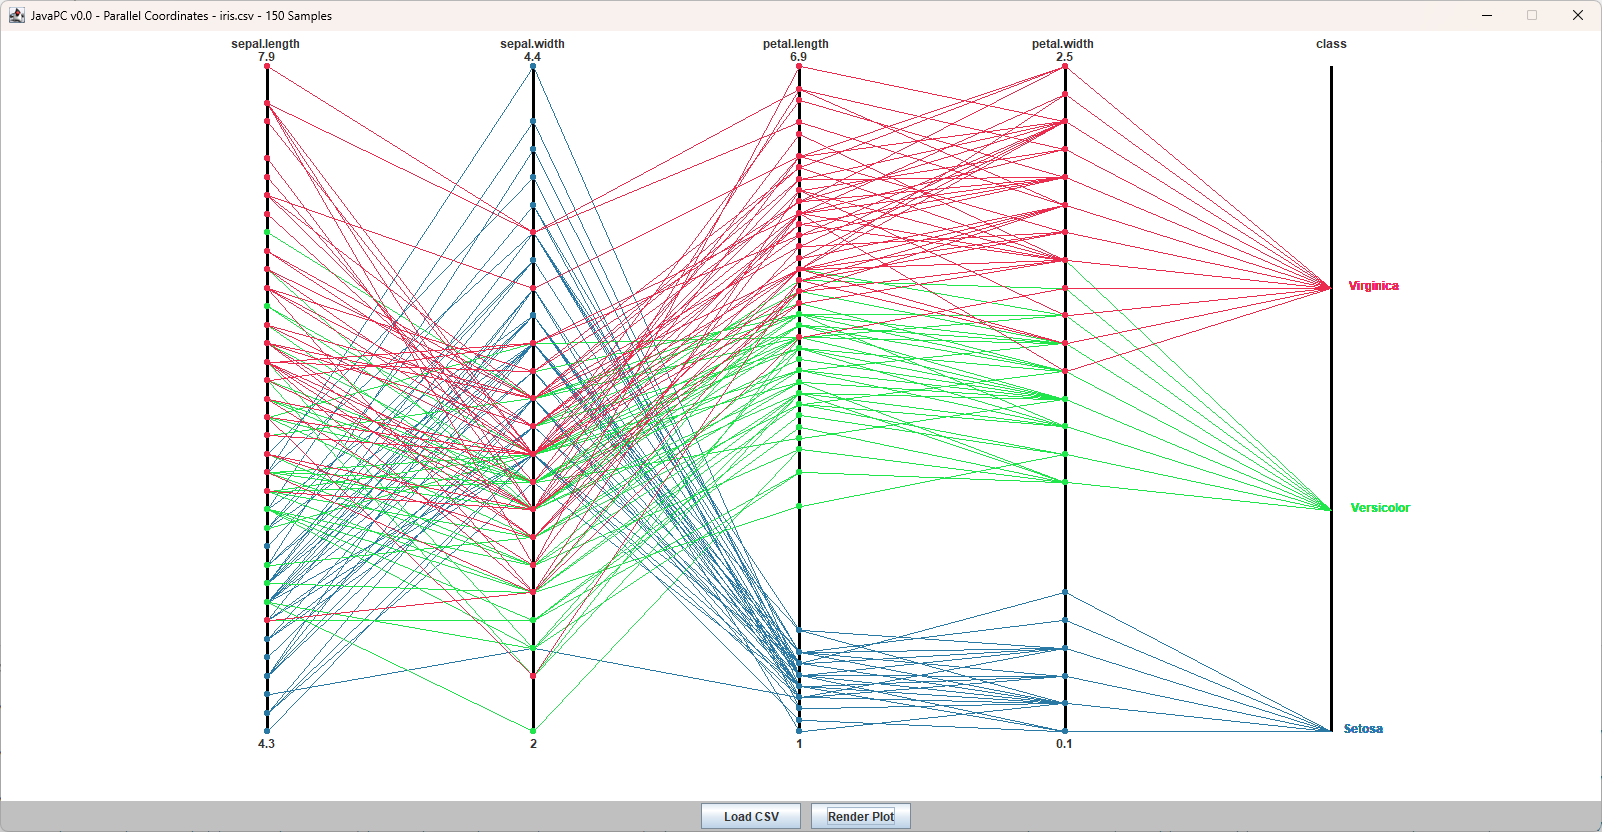
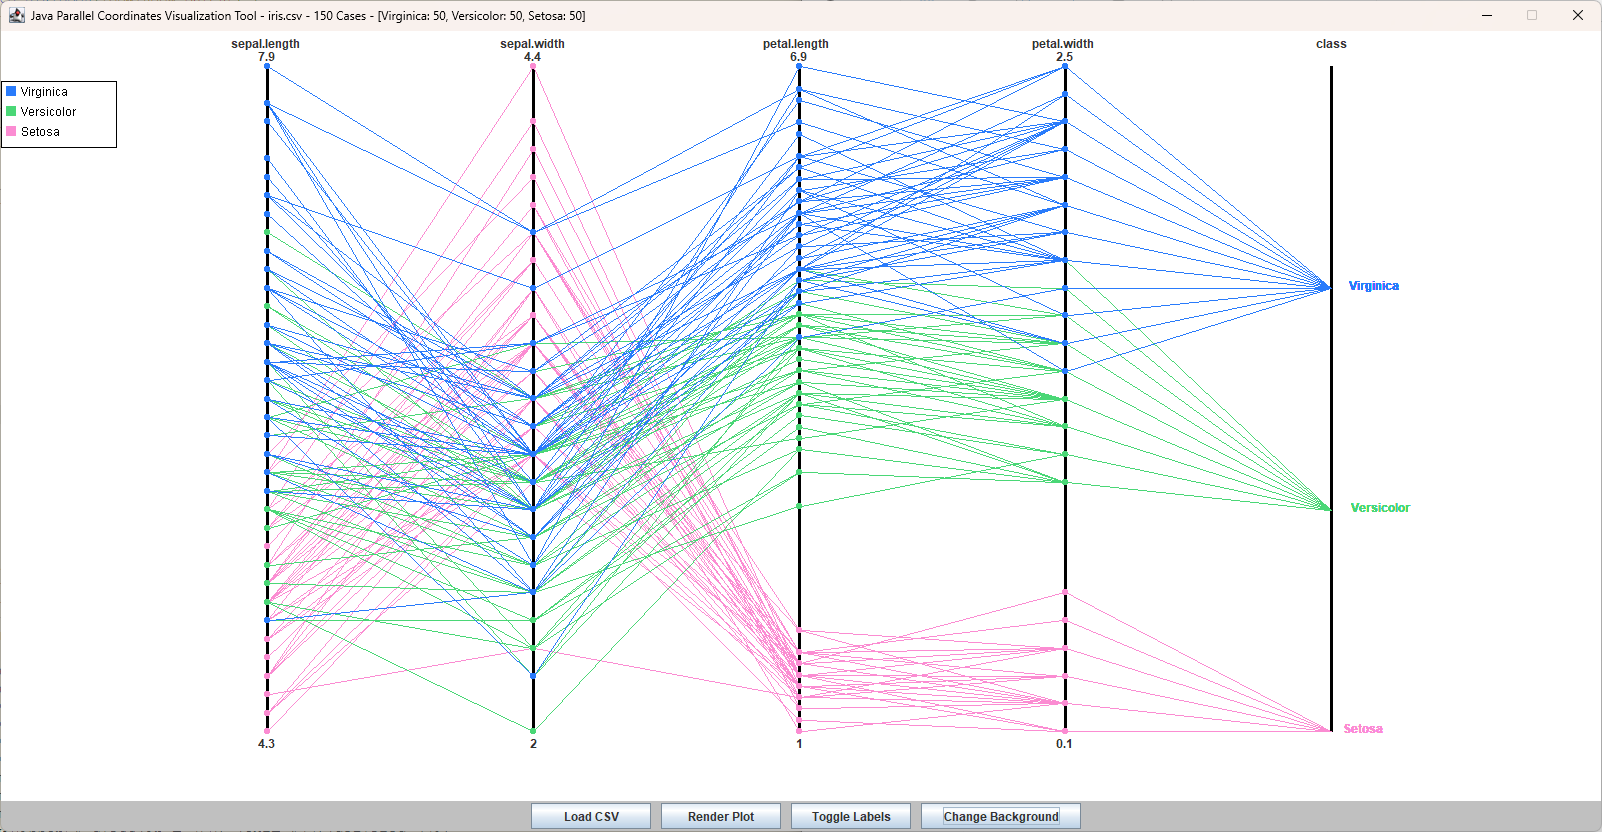
button fixes, screenshots

diff --git a/javaPC/UiRibbon.java b/javaPC/UiRibbon.java
@@ -1,14 +1,7 @@
 package javaPC;
 
-import javax.swing.JPanel;
-import javax.swing.JButton;
-import javax.swing.JColorChooser;
-import javax.swing.JOptionPane;
-import java.awt.Color;
-import java.awt.Dimension;
-import java.awt.GridBagConstraints;
-import java.awt.GridBagLayout;
-import java.awt.Insets;
+import javax.swing.*;
+import java.awt.*;
 import java.awt.event.ActionEvent;
 import java.awt.event.ActionListener;
 import java.io.File;
@@ -37,11 +30,30 @@ public class UiRibbon extends JPanel {
         JButton buttonLoadCSV = new JButton("Load CSV");
         JButton buttonRenderPlot = new JButton("Render Plot");
         JButton buttonToggleAxisNames = new JButton("Toggle Labels");
+        JButton buttonChangeBackground = new JButton("Change Background");
 
         // Set the preferred width of the buttons
         buttonLoadCSV.setPreferredSize(new Dimension(120, buttonLoadCSV.getPreferredSize().height));
         buttonRenderPlot.setPreferredSize(new Dimension(120, buttonRenderPlot.getPreferredSize().height));
         buttonToggleAxisNames.setPreferredSize(new Dimension(120, buttonToggleAxisNames.getPreferredSize().height));
+        buttonChangeBackground.setPreferredSize(new Dimension(160, buttonChangeBackground.getPreferredSize().height));
+
+        buttonChangeBackground.setPreferredSize(new Dimension(160, buttonChangeBackground.getPreferredSize().height));
+        buttonChangeBackground.addActionListener(new ActionListener() {
+            @Override
+            public void actionPerformed(ActionEvent event) {
+                // Open a color chooser dialog and get the selected color
+                Color newColor = JColorChooser.showDialog(null, "Choose Background Color", parent.getPlotPanel().getBackground());
+                if (newColor != null) {
+                    parent.getPlotPanel().setBackgroundColor(newColor); // Assuming parent.getPlotPanel() method exists
+                }
+            }
+        });
+
+        // Initially disable buttons that should only be active after a CSV is loaded
+        buttonRenderPlot.setEnabled(false);
+        buttonToggleAxisNames.setEnabled(false);
+        buttonChangeBackground.setEnabled(false);
 
         // Add action listener to the "Load CSV" button
         buttonLoadCSV.addActionListener(new ActionListener() {
@@ -49,14 +61,24 @@ public class UiRibbon extends JPanel {
             public void actionPerformed(ActionEvent event) {
                 loadedCSV = CsvParser.loadCSVFile();
                 if (loadedCSV == null) {
-                    // Show a basic information message dialog
                     JOptionPane.showMessageDialog(null, "The file selected is not a CSV, please try again.");
                     buttonRenderPlot.setEnabled(false);
+                    buttonToggleAxisNames.setEnabled(false);
+                    buttonChangeBackground.setEnabled(false);
                 } else {
+                    String[][] data = CsvParser.parseCSVFile(loadedCSV); // Declare the 'data' variable
                     buttonRenderPlot.setEnabled(true);
+                    parent.render(loadedCSV.getName(), data);
+                    buttonToggleAxisNames.setEnabled(true);
+                    buttonChangeBackground.setEnabled(true);
                 }
             }
         });
+
+        // Set the preferred width of the buttons
+        buttonLoadCSV.setPreferredSize(new Dimension(120, buttonLoadCSV.getPreferredSize().height));
+        buttonRenderPlot.setPreferredSize(new Dimension(120, buttonRenderPlot.getPreferredSize().height));
+        buttonToggleAxisNames.setPreferredSize(new Dimension(120, buttonToggleAxisNames.getPreferredSize().height));
 
         // Add action listener to the "Render Plot" button
         buttonRenderPlot.setEnabled(false);
@@ -83,19 +105,6 @@ public class UiRibbon extends JPanel {
         constraints.gridy = 0;
         constraints.anchor = GridBagConstraints.WEST;
         constraints.insets = new Insets(0, 10, 0, 0);
-
-        JButton buttonChangeBackground = new JButton("Change Background");
-        buttonChangeBackground.setPreferredSize(new Dimension(160, buttonChangeBackground.getPreferredSize().height));
-        buttonChangeBackground.addActionListener(new ActionListener() {
-            @Override
-            public void actionPerformed(ActionEvent event) {
-                // Open a color chooser dialog and get the selected color
-                Color newColor = JColorChooser.showDialog(null, "Choose Background Color", parent.getPlotPanel().getBackground());
-                if (newColor != null) {
-                    parent.getPlotPanel().setBackgroundColor(newColor); // Assuming parent.getPlotPanel() method exists
-                }
-            }
-        });
 
         add(buttonLoadCSV, constraints);
 
